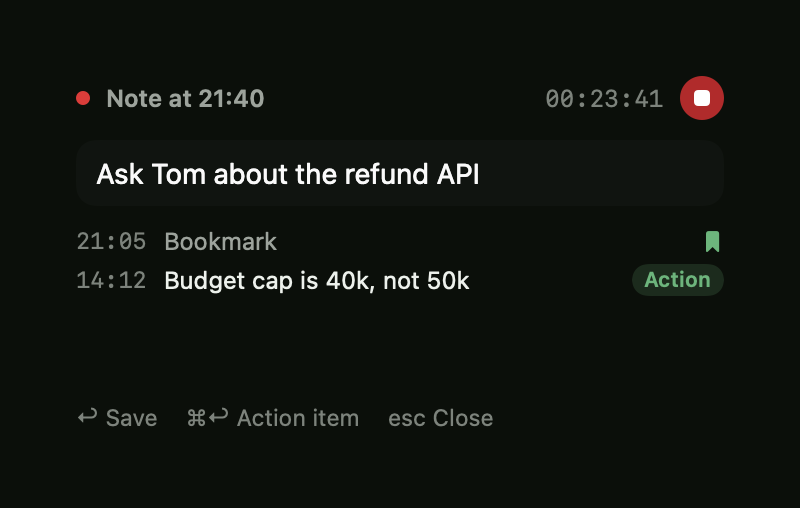
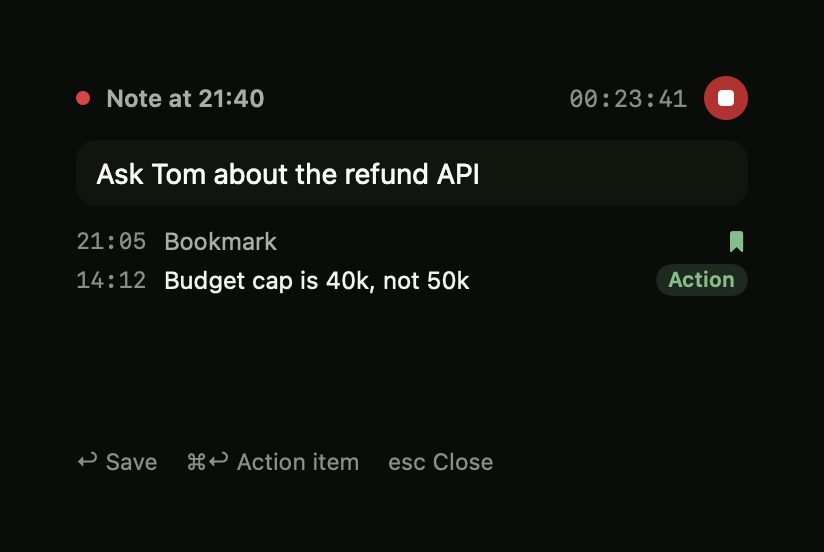
Update README, CHANGELOG, performance metrics, and Light/Dark screenshots
- Refresh hero meeting and floating note screenshots in Light and Dark mode
- Add Light/Dark screenshots for Schedule Walk-in Prep, Commitments Radar, People, Key Moments, and Sound Check
- Document all new workspace hubs, audio guardrails, responsive layout, speaker tools, and M4 benchmarks in README.md, CHANGELOG.md, and docs/performance.md

diff --git a/README.md b/README.md
@@ -2,12 +2,12 @@
 
 <h1 align="center">ReMeet</h1>
 
-<p align="center">A meeting recorder for macOS that transcribes on your Mac.<br>It records your microphone and the call as two tracks, labels who spoke, and writes a transcript and summary.</p>
+<p align="center">A local-first meeting recorder and memory hub for macOS.<br>It records your microphone and the call as two tracks, tracks people and commitments, surfaces Key Moments, and transcribes &amp; summarizes on your Mac.</p>
 
 <p align="center">
   <picture>
     <source media="(prefers-color-scheme: dark)" srcset="docs/images/meeting-dark.png">
-    <img src="docs/images/meeting-light.png" width="820" alt="The ReMeet meeting window: a sidebar of meetings and a summary with decisions and action items">
+    <img src="docs/images/meeting-light.png" width="820" alt="The ReMeet workspace: icon-only workspace tabs (Meetings, Schedule, People, Moments), folder sidebar, Conversation Pulse talk-share ribbon, Key Moments cards, and meeting summary">
   </picture>
 </p>
 
@@ -15,31 +15,47 @@
 
 Phone recorders stop working the moment you put headphones in, because the other side of the
 call never reaches the phone's microphone. ReMeet captures the call audio on the Mac itself, next
-to your mic, so it works with AirPods and with any meeting app. Speech recognition and speaker
-labels run locally with open models. There is no account, no server and no subscription.
+to your mic, so it works with AirPods and with any meeting app. Speech recognition, speaker
+embeddings, Key Moments, people profiles, and search run locally with open models. There is no
+account, no server and no subscription.
 
 ## What it does
 
-**Recording**
+**Recording & audio safety**
 
 - Starts from the menu bar or with <kbd>⌥</kbd><kbd>⌘</kbd><kbd>R</kbd>. Your mic and the call
   audio are saved as separate tracks, so your voice is always labelled as you.
-- Follows the input device your meeting app is using, and can capture audio from meeting apps
-  only, leaving music and notifications out.
-- Offers to record a minute before a calendar meeting, and when Zoom, Teams, FaceTime, Slack,
-  Webex, Discord or a browser call turns the microphone on. The recording takes the event's name.
-- Stops by itself when the call ends, after a 10 second countdown you can cancel.
-- Imports existing audio files through the same pipeline.
+- Follows the active input device (switching seamlessly between AirPods, Bluetooth headsets, USB
+  mics, and your Mac's built-in mic) and can capture audio from meeting apps only, leaving music and
+  notifications out.
+- **Pre-call Sound Check:** live mic and call-audio level meters with a sample-rate readout, 3-second
+  mic test, and call-audio loopback check directly from the menu bar or upcoming meeting cards.
+- **Live silent-recording guardrails:** continuously checks recording health and surfaces clear menu
+  bar and pill warnings for an OS-muted mic, flatlined dead input, stalled Bluetooth streams,
+  blocked call capture, or call-app mic mismatches.
+- Reminds you a minute before online calendar meetings (filtering out classes and physical-only
+  blocks) across **14 call platforms**: Zoom, Teams, Google Meet, Webex, FaceTime, Slack Huddle,
+  Discord, Amazon Chime, GoTo Meeting, Whereby, Jitsi, RingCentral, BlueJeans, and Gather, and
+  starts/stops automatically when a call uses the microphone.
+- Imports existing audio files preserving original file creation dates, with editable meeting
+  date &amp; time in the header.
+
+<p align="center">
+  <picture>
+    <source media="(prefers-color-scheme: dark)" srcset="docs/images/sound-check-dark.png">
+    <img src="docs/images/sound-check-light.png" width="460" alt="Pre-call Sound Check showing live AirPods Pro mic and call audio meters">
+  </picture>
+</p>
 
 **Notes while you talk**
 
-- A small floating pill shows the timer and levels. Click it, or press
+- A compact floating pill shows the timer and levels. Click it, or press
   <kbd>⌥</kbd><kbd>⌘</kbd><kbd>N</kbd>, to type a note. <kbd>Return</kbd> saves a note,
   <kbd>⌘</kbd><kbd>Return</kbd> saves an action item, and an empty <kbd>Return</kbd> drops a
-  bookmark. Notes are timestamped and appear in the transcript and summary.
-- Automatically hides the pill when Zoom, Teams, or macOS screen sharing starts, and lets you
-  hide or show it anytime with <kbd>⌥</kbd><kbd>⌘</kbd><kbd>H</kbd> (or disable the pill in
-  Settings and use the menu bar + <kbd>⌥</kbd><kbd>⌘</kbd><kbd>N</kbd> on demand).
+  bookmark. Notes are timestamped and woven into Key Moments, the transcript, and the summary.
+- Automatically hides the pill when Zoom, Teams, or macOS screen sharing starts (without requiring
+  Screen Recording permission), and lets you hide or show it anytime with
+  <kbd>⌥</kbd><kbd>⌘</kbd><kbd>H</kbd>.
 
 <p align="center">
   <picture>
@@ -48,23 +64,76 @@ labels run locally with open models. There is no account, no server and no subsc
   </picture>
 </p>
 
-**After the meeting**
+**Schedule, Walk-In Prep &amp; Commitments**
 
-- Each recording is compressed, split by speaker, transcribed and summarized. Processing resumes
-  where it left off, and a failed step never deletes audio.
-- Click any word in the transcript to play from there. Summary lines jump to the moment they
-  came from.
-- Name a voice once and ReMeet suggests that name in later meetings.
+- **Calendar sync:** combines Apple Calendar (EventKit) with subscribed Google, Outlook, and iCloud
+  `.ics` feeds, deduplicated and filtered to actual online meetings so classes and desk blocks never
+  clutter your schedule.
+- **Walk-In Pre-Meeting Prep Brief:** opens before any recurring or invitee-matched meeting with
+  one-click **Join &amp; Record**, attendee cards, **Last time** decisions/summary recap, open
+  questions, and a mutual accountability check before you walk in.
+- **Commitments Radar:** aggregates open action items across meetings and elevates **For you** and
+  **Waiting on others** above collapsed **Other team items**, with `7d` / `30d` / `All` recency
+  filters, hover actions, and one-click dismissal.
+
+<p align="center">
+  <picture>
+    <source media="(prefers-color-scheme: dark)" srcset="docs/images/schedule-dark.png">
+    <img src="docs/images/schedule-light.png" width="820" alt="Schedule Walk-In Pre-Meeting Prep view with attendee cards, mutual accountability promises, and prior meeting recap">
+  </picture>
+</p>
+
+<p align="center">
+  <picture>
+    <source media="(prefers-color-scheme: dark)" srcset="docs/images/commitments-dark.png">
+    <img src="docs/images/commitments-light.png" width="820" alt="Commitments Radar prioritizing For you and Waiting on others with Other team items collapsed">
+  </picture>
+</p>
+
+**People &amp; voiceprints**
+
+- **People directory (`~/ReMeet/people.json`):** builds profiles automatically from speaker names
+  and calendar invites, tracking meeting counts, spoken time, voiceprint hours, free-form context
+  notes, and shared open commitments per person.
+- **Smarter voice matching &amp; turn fixes:** matches WeSpeaker embeddings across meetings with
+  calendar-invite ranking, tracks per-meeting voiceprint contributions so fixing a mislabelled
+  speaker cleanly unlearns the wrong vector, and lets you click any turn or speaker chip to
+  assign **This turn** vs **All turns** or split out a new speaker (1–12 call speakers).
+
+<p align="center">
+  <picture>
+    <source media="(prefers-color-scheme: dark)" srcset="docs/images/people-dark.png">
+    <img src="docs/images/people-light.png" width="820" alt="People profile view showing voiceprint status, stats, context notes, shared commitments, and conversation history">
+  </picture>
+</p>
+
+**Key Moments, Conversation Pulse &amp; Highlight Reel**
+
+- **Key Moments:** interactive visual cards (Pinned, Decisions, Commitments, Key Points) shown inside
+  each meeting and across your whole library in the **Moments** tab, with one-click jump to audio or
+  transcript and sequential **Highlight Reel** playback.
+- **Conversation Pulse:** clickable speaker talk-share timeline dotted with moment pins showing
+  each participant's speaking share and meeting pace.
+
+<p align="center">
+  <picture>
+    <source media="(prefers-color-scheme: dark)" srcset="docs/images/moments-dark.png">
+    <img src="docs/images/moments-light.png" width="820" alt="Cross-meeting Key Moments card gallery filtered by Commitments, Decisions, Pinned, and Key Points">
+  </picture>
+</p>
+
+**After the meeting &amp; AI workflows**
+
+- Resumable local processing: compress, speaker-diarize, transcribe, and summarize without ever
+  deleting audio on failure.
+- Fast `NSTextView` transcript in a user-resizable split pane (<kbd>⌘</kbd><kbd>T</kbd>) that tracks
+  window width down to narrow 3-column layouts, with click-to-play words and instant
+  <kbd>⌘</kbd><kbd>F</kbd> find.
 - Ask questions about one meeting, a folder, or everything you have recorded
-  (<kbd>⌘</kbd><kbd>L</kbd>). Answers cite the passages they came from.
-- **Copy for AI** (<kbd>⇧</kbd><kbd>⌘</kbd><kbd>C</kbd>) puts the whole meeting on the clipboard
-  as Markdown, ready to paste into any assistant.
-- **Auto-export Markdown for AI agents** (<kbd>⇧</kbd><kbd>⌘</kbd><kbd>E</kbd>): each folder can
-  point to a local directory on disk where ReMeet automatically writes and updates clean `.md`
-  files (YAML frontmatter, folder context, notes, summary, checkbox action items, and full
-  transcript) so tools like Claude Code or Cursor can read meeting context directly from disk.
-- Folders group meetings by team or project. Each folder has a context note that is passed to
-  its summaries.
+  (<kbd>⌘</kbd><kbd>L</kbd>) with hybrid SQLite FTS5 + embedding search and timestamped citations.
+- One-click **Follow-up** email composer, **Copy for AI** (<kbd>⇧</kbd><kbd>⌘</kbd><kbd>C</kbd>),
+  and **Auto-export Markdown for AI agents** (<kbd>⇧</kbd><kbd>⌘</kbd><kbd>E</kbd>) per folder
+  so tools like Claude Code or Cursor can read meeting context straight from disk.
 
 ## Models
 
@@ -82,16 +151,19 @@ Transcription is English only.
 
 ## What leaves your Mac
 
-Audio never does. Recording, speaker labels and speech recognition are entirely local, and
-meetings are plain files in `~/ReMeet/meetings`.
+Audio never leaves your Mac. Recording, speaker labels, speech recognition, Key Moments, people
+profiles, and search run locally, and meetings live as plain files in `~/ReMeet/meetings`.
 
-There is one optional exception for text. If the [Claude Code](https://claude.com/claude-code)
-command line tool is installed and signed in, ReMeet uses it to send the transcript text to
-Claude Sonnet, which fixes misheard words and writes the summary. This uses your own Claude
-login. ReMeet does not read or store any API key. Without Claude Code installed, or if the call
-fails, the on-device transcript and the local summary model are used and nothing is sent anywhere.
+Two optional features make outbound text/HTTP requests only when you opt in:
 
-The only other network traffic is the model download from Hugging Face on first launch.
+- **Claude Code text pass:** if the [Claude Code](https://claude.com/claude-code) CLI is installed
+  and signed in, ReMeet sends transcript text to Claude Sonnet for spelling cleanup and summaries
+  using your own Claude login (zero API keys stored; falls back to the local MLX model offline).
+- **Subscribed calendar feeds:** if you paste `.ics` feed URLs in Schedule or Settings, ReMeet
+  fetches read-only calendar events directly from those URLs to power reminders, attendee hints,
+  and Walk-In Prep Briefs.
+
+The only other network traffic is the initial model download from Hugging Face on first launch.
 
 ## Requirements
 
@@ -140,10 +212,11 @@ docs/                 Performance measurements and README images
 ```
 
 A meeting is a folder: `~/ReMeet/meetings/<date>_<time>_<title>/` holding the audio plus JSON
-and Markdown for notes, transcript and summary. To move your history to a new Mac, copy
-`~/ReMeet/` (`index.sqlite` and `chunks.sqlite` rebuild automatically on launch). Measured CPU,
-memory and processing times are in [docs/performance.md](docs/performance.md), and the full
-history of changes and benchmarks is in [CHANGELOG.md](CHANGELOG.md).
+and Markdown for notes, transcript and summary, alongside `~/ReMeet/people.json` and
+`~/ReMeet/voiceprints.json`. To move your history to a new Mac, copy `~/ReMeet/`
+(`index.sqlite` and `chunks.sqlite` rebuild automatically on launch). Measured CPU, memory and
+processing times are in [docs/performance.md](docs/performance.md), and the full history of
+changes and benchmarks is in [CHANGELOG.md](CHANGELOG.md).
 
 ## Status
 

diff --git a/CHANGELOG.md b/CHANGELOG.md
@@ -6,6 +6,54 @@ All performance numbers were measured on a **base Apple M4 MacBook Pro (16 GB un
 
 ---
 
+## [2026-11-24] — People & Calendar Hubs, Key Moments, Audio Guardrails, Responsive Split Layout & UX Polish
+
+### Added
+- **People Hub & Cross-Meeting Memory (`PeopleStore`, `PeopleViews`):**
+  - Local people directory in `~/ReMeet/people.json` built automatically from speaker names, manual profiles, and calendar invitees, tracking meeting counts, spoken time, voiceprint seconds, free-form context notes, and per-person open commitments.
+  - Supports editing profiles, merging duplicate people, resetting individual voiceprints, and filtering by *All*, *Voice*, *Soon*, or *Tasks*.
+- **Apple Calendar + RFC-5545 `.ics` Calendar Sync & Schedule Filtering (`ICalendarParser`, `CalendarWatcher`, `MeetingReminder`):**
+  - Combines EventKit events with subscribed Google, Outlook, and iCloud `.ics` feeds (with `RRULE`/`EXDATE` expansion, folded-line parsing, and cross-source deduplication).
+  - Added `MeetingReminder.hasOnlineMeetingPlatform(_:)` and `nextOnlineMeeting(_:now:reminded:)` (covering 14 platforms: Teams, Zoom, Google Meet, Webex, FaceTime, Slack Huddle, Discord, Amazon Chime, GoTo, Whereby, Jitsi, RingCentral, BlueJeans, and Gather, plus explicit location labels like `"Microsoft Teams Meeting"` and call URLs in `notes`) so classes and physical-only calendar entries stay out of Schedule and reminder prompts.
+- **Walk-In Pre-Meeting Prep Briefs & Follow-Up Composer (`MeetingPrepBrief`, `FollowUpComposer`, `ScheduleViews`):**
+  - Assembles recurring series history, carryover decisions/open questions, attendee context cards, mutual open promises (*What YOU promised* / *What THEY promised you*), and one-click **Join & Record** + **Copy Brief** before meetings.
+  - Added one-click **Follow-up** draft composer directly in the meeting header.
+- **Prioritized Commitments Radar & Action-Item Relevance (`CommitmentsRadar`, `Documents`, `SummaryParser`):**
+  - Extended `ActionItem` with `relatesToMe` (`relates_to_me`) and `dismissed` (backward-compatible JSON decoding), joint-owner detection (`"Alex and Priya"`), and 1:1 elevation.
+  - Prioritizes **For you** and **Waiting on others** on top while collapsing unrelated **Other team items**, with `7d` / `30d` / `All` recency filters, hover `...` relevance overrides, and one-click dismissal across both meeting summaries and Commitments Radar.
+- **Key Moments, Moments Gallery, Highlight Reel & Conversation Pulse (`KeyMoments`, `KeyMomentsSection`, `MomentsGalleryView`, `HubCoordinator`):**
+  - Surfaces visual tile cards (*Pinned*, *Decisions*, *Commitments*, *Key Points*) inside meetings and in a searchable cross-meeting **Moments** gallery, with sequential **Highlight Reel** playback and a clickable **Conversation Pulse** speaker talk-share ribbon.
+- **Audio Route Resilience, Sound Check & Live Recording Health (`AudioHealthEvaluator`, `SoundCheckView`, `LevelProbe`, `RecorderService`, `MicCapture`):**
+  - Handles AirPods, Bluetooth headset, and USB/built-in mic switches cleanly mid-session via Core Audio default-device listeners, stalled-stream recovery, and live `AVAudioEngine` / sample-rate reconfiguration.
+  - Added pre-call **Sound Check** sheet/card (`You` mic dB meter + 3 s voice check, `Call` meter + call audio loopback check, sample rate readout) accessible from the menu bar, onboarding, and upcoming meeting cards.
+  - Added `AudioHealthEvaluator` to surface actionable warnings for OS/hardware-muted mics, digital-zero flatlined inputs, stalled Bluetooth streams, blocked call audio capture, and call-app mic mismatches.
+- **Turn-Level Speaker Assignment & Clean Voiceprint Unlearning (`SpeakerMemory`, `SpeakerAssignSheet`, `MeetingDocument`):**
+  - Added `KnownVoice.Contribution` (`sourceKey: "<meetingID>::<speakerID>"`) and `SpeakerMemory.unlearn(sourceKey:)` so correcting a mislabelled speaker removes the contaminated vector and recomputes the weighted centroid from remaining clean recordings; added `rankedMatches` and `expectedCallSpeakers` up to `1...12`.
+  - Added `SpeakerAssignSheet` (`This turn` vs `All turns`, quick-pick speakers already in the recording, calendar invitees, People directory chips, and clear/unlearn action) plus quick-pick People menus and dismissible suggestions in `MeetingDetailView`.
+
+### UI / UX Polish & Bug Fixes
+- **Responsive Window Resizing & Narrow 3-Column Split Fix (`MeetingWindowRoot`, `WindowChrome`, `TranscriptInspector`, `HubComponents`):**
+  - Replaced SwiftUI `.inspector(isPresented:)` (which triggered a macOS 27 `SplitViewChildController.hostingController(_:didUpdateMinSize:maxSize:)` constraint loop at narrow widths) with a `GeometryReader`-driven, user-draggable split pane (`240–480 pt`) and dynamic `minWindowWidth` (`760` closed, `840` 3-column, `680` collapsed sidebar; auto-collapses sidebar below `920 pt` when opening Transcript).
+  - Added `WidthTrackingScrollView` (`intrinsicContentSize = noIntrinsicMetric` + async layout flush) so `NSTextContainer` tracks viewport width without right-edge transcript clipping.
+  - Added `ResponsiveDocumentScroll` and `WrappingFlowLayout` across detail views, stacked `MeetingChatPanel` inputs cleanly on narrow panes (`compact: width < 400`), wrapped `ConversationPulseBar` talk-share pills, made `PlayerCapsule` scrubbers flexible, and aligned `PeopleViews` stat card heights.
+- **Visual Clutter Reduction (`MeetingSidebar`, `TranscriptInspector`, `MomentsGalleryView`, `ScheduleViews`):**
+  - Switched workspace tabs to icon-only buttons with `.help(...)` hover tooltips, replaced the persistent `"Add context or AI export folder..."` card under configured folders with a dismissible one-time setup hint for empty folders plus hover folder-settings actions, replaced `"⌘F to find"` text with a search button tooltip, and removed redundant captions.
+
+### Performance & Efficiency Measurements
+Measured on a base M4 MacBook Pro (16 GB, macOS 27) running the Release build against a fresh 150-meeting synthetic dataset (with FTS5 `index.sqlite`, hybrid RAG `chunks.sqlite`, People directory, Commitments radar, Key Moments, `HubCoordinator`, and calendar sync initialized):
+- **Launch (`menubar.ready`, 5 runs):** **207–327 ms** (median **284.9 ms**: `207.2`, `283.4`, `284.9`, `286.8`, `326.9 ms`).
+- **150-meeting library scan off main (`library.loaded - launch.end`):** **17.3–49.6 ms** (median **19.6 ms**, off the main thread).
+- **Window open (`window.open.request` → `window.appear` / `document.shown`):** **170–208 ms** to window appear (median **192.6 ms**); **545–583 ms** first open to document shown (median **565.0 ms**); **92–105 ms** on window reopen (median **97.9 ms**).
+- **Idle CPU / power / memory (60 s across 12 samples):** **0.03% CPU**, **0.03 power**, **35 MB** `phys_footprint` (`35M+` in `top`).
+
+### Verification
+- `ReMeetKit` unit tests (`swift test --package-path Packages/ReMeetKit`): **156 / 156 passed** across 38 suites (including `AudioHealthTests`, `HubFeaturesTests`, and `PolishFeaturesTests`).
+- `scripts/selftests.sh`: **76 / 76 passed** (`bubble` 26/26, `compress` 19/19, `player` 8/8, `search` 11/11, `backends` 6/6, `processmonitor` 3/3, `tapfilter` 3/3).
+- Additional Release `--selftest` checks: `window` (**8/8**), `folders` (**8/8**), `bughunt reloadthen` (**3/3**), `bughunt queuedrain` (**5/5**), `bughunt callwarning` (**1/1**).
+- Full Light & Dark offscreen snapshot verification across all rendered views (including `meeting-narrow-inspector`, `commitments-radar`, `schedule-prep`, `people-detail`, `moments-gallery`, and `sound-check`).
+
+---
+
 ## [2026-11-21] — AI Agent Markdown Export, Startup & Idle Efficiency, NSTextView Transcript, Screen-Share Hiding, and UI Redesign
 
 ### Added

diff --git a/docs/performance.md b/docs/performance.md
@@ -107,3 +107,18 @@ dataset (now including both `index.sqlite` FTS5 and `chunks.sqlite` RAG hybrid i
 | Meeting switch decode → display | **17–20 ms** off-main | Restored async `MeetingDocument.load` + precomputed derived fields (`wordCount`, audio paths, speaker clips/likeness) off-main so SwiftUI `body` does zero `FileManager` or cosine work |
 | Transcript rendering (long calls) | **AppKit `NSTextView`** | Replaced thousands of per-word SwiftUI `Button` views in uncached `FlowLayout` with `NSAttributedString` + `NSLayoutManager` temporary attributes ($O(\log W)$ word lookup, zero relayout at 10 Hz playback) |
 | Chunk index sync | **$O(N)$ SQLite reads** | Fixed $O(N^2)$ full-table scan per meeting inside `ChunkIndex.sync`; stopped reindexing on stage-start ticks |
+
+---
+
+## Follow-up pass (2026-11-24 — Workspace Hubs, Audio Guardrails & Responsive UI)
+
+Measured on the same M4 MacBook Pro (16 GB, macOS 27), Release build, 150-meeting synthetic
+dataset (with FTS5 `index.sqlite`, hybrid RAG `chunks.sqlite`, People directory, Key Moments,
+Commitments Radar, `HubCoordinator`, and calendar sync initialized):
+
+| What | Measured | Notes |
+|---|---|---|
+| Launch: menu bar ready (5 runs) | **207–327 ms** (median **284.9 ms**) | `207.2, 283.4, 284.9, 286.8, 326.9 ms` via `Perf.mark` |
+| Launch: 150-meeting library scan | **17–50 ms** (median **19.6 ms**) | `library.loaded - launch.end` off the main thread |
+| Open meeting window (first / reopen) | **192.6 ms** appear · **565.0 ms** document / **97.9 ms** reopen | Medians across 5 runs (`document.shown` 19–26 ms off-main after first runloop) |
+| Idle CPU / memory (60 s, 12 samples) | **0.03% CPU · 0.03 power · 35 MB** `phys_footprint` | `35M+` in `top`; event-driven audio & calendar monitors with background hub aggregation |
